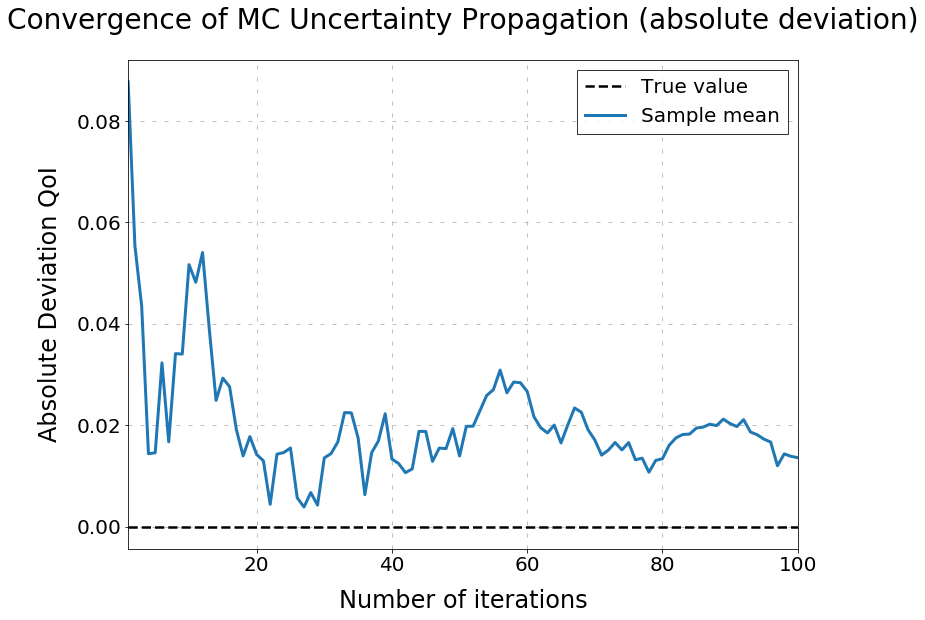
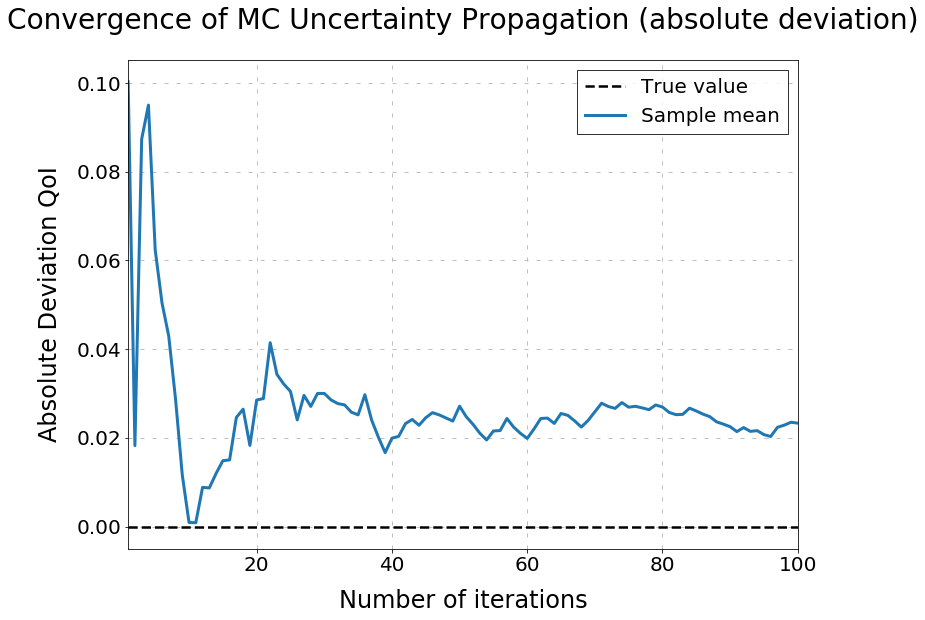
simulation for Dataset 3, N=100

Changed region(s): [[0.0605, 0.1839, 0.8778, 0.8581], [0.0908, 0.1226, 0.1514, 0.1532]]

diff --git a/uncertainty-quantification/python/model_wrapper.py b/uncertainty-quantification/python/model_wrapper.py
@@ -26,7 +26,7 @@ def model_wrapper_kw_94(input_params):
 
     """
     # Build simulate function. It can be reused as only parameters change.
-    params, options = rp.get_example_model("kw_94_two", with_data=False)
+    params, options = rp.get_example_model("kw_94_three", with_data=False)
     options["simulation_agents"] = 4000
     simulate = rp.get_simulate_func(params, options)
 
@@ -35,11 +35,11 @@ def model_wrapper_kw_94(input_params):
         params["value"].to_numpy()
     ), "The number of input parameters must equal the number of model parameters."
 
-    tuition_subsidies = [0, 1000]
+    tuition_subsidies = [0, 2000]
     data_frames = []
 
     for tuition_subsidy in tuition_subsidies:
-        params, _ = rp.get_example_model("kw_94_two", with_data=False)
+        params, _ = rp.get_example_model("kw_94_three", with_data=False)
         # Set paramters equal to input paramters.
         params["value"] = input_params
         params.loc[

diff --git a/uncertainty-quantification/python/mc_uncertainty_propagation.py b/uncertainty-quantification/python/mc_uncertainty_propagation.py
@@ -43,7 +43,7 @@ def mc_uncertainty_propagation(mean, cov, n_draws, save_json=False):
     """
     distribution = cp.MvNormal(loc=mean, scale=cov)
 
-    df = pd.read_csv("csv/table42_kw_94.csv", sep=",")
+    df = pd.read_csv("csv/table43_kw_94.csv", sep=",")
 
     qoi = [np.nan] * n_draws
 
@@ -90,7 +90,7 @@ def transform_params_kw94_respy(kw94_params):
     """
     assert len(kw94_params) == 26, "Length of KW94 vector must be 26."
 
-    params, _ = rp.get_example_model("kw_94_two", with_data=False)
+    params, _ = rp.get_example_model("kw_94_three", with_data=False)
 
     respy_params = pd.Series(
         data=np.full(len(params["value"].values), np.nan), index=params.index
